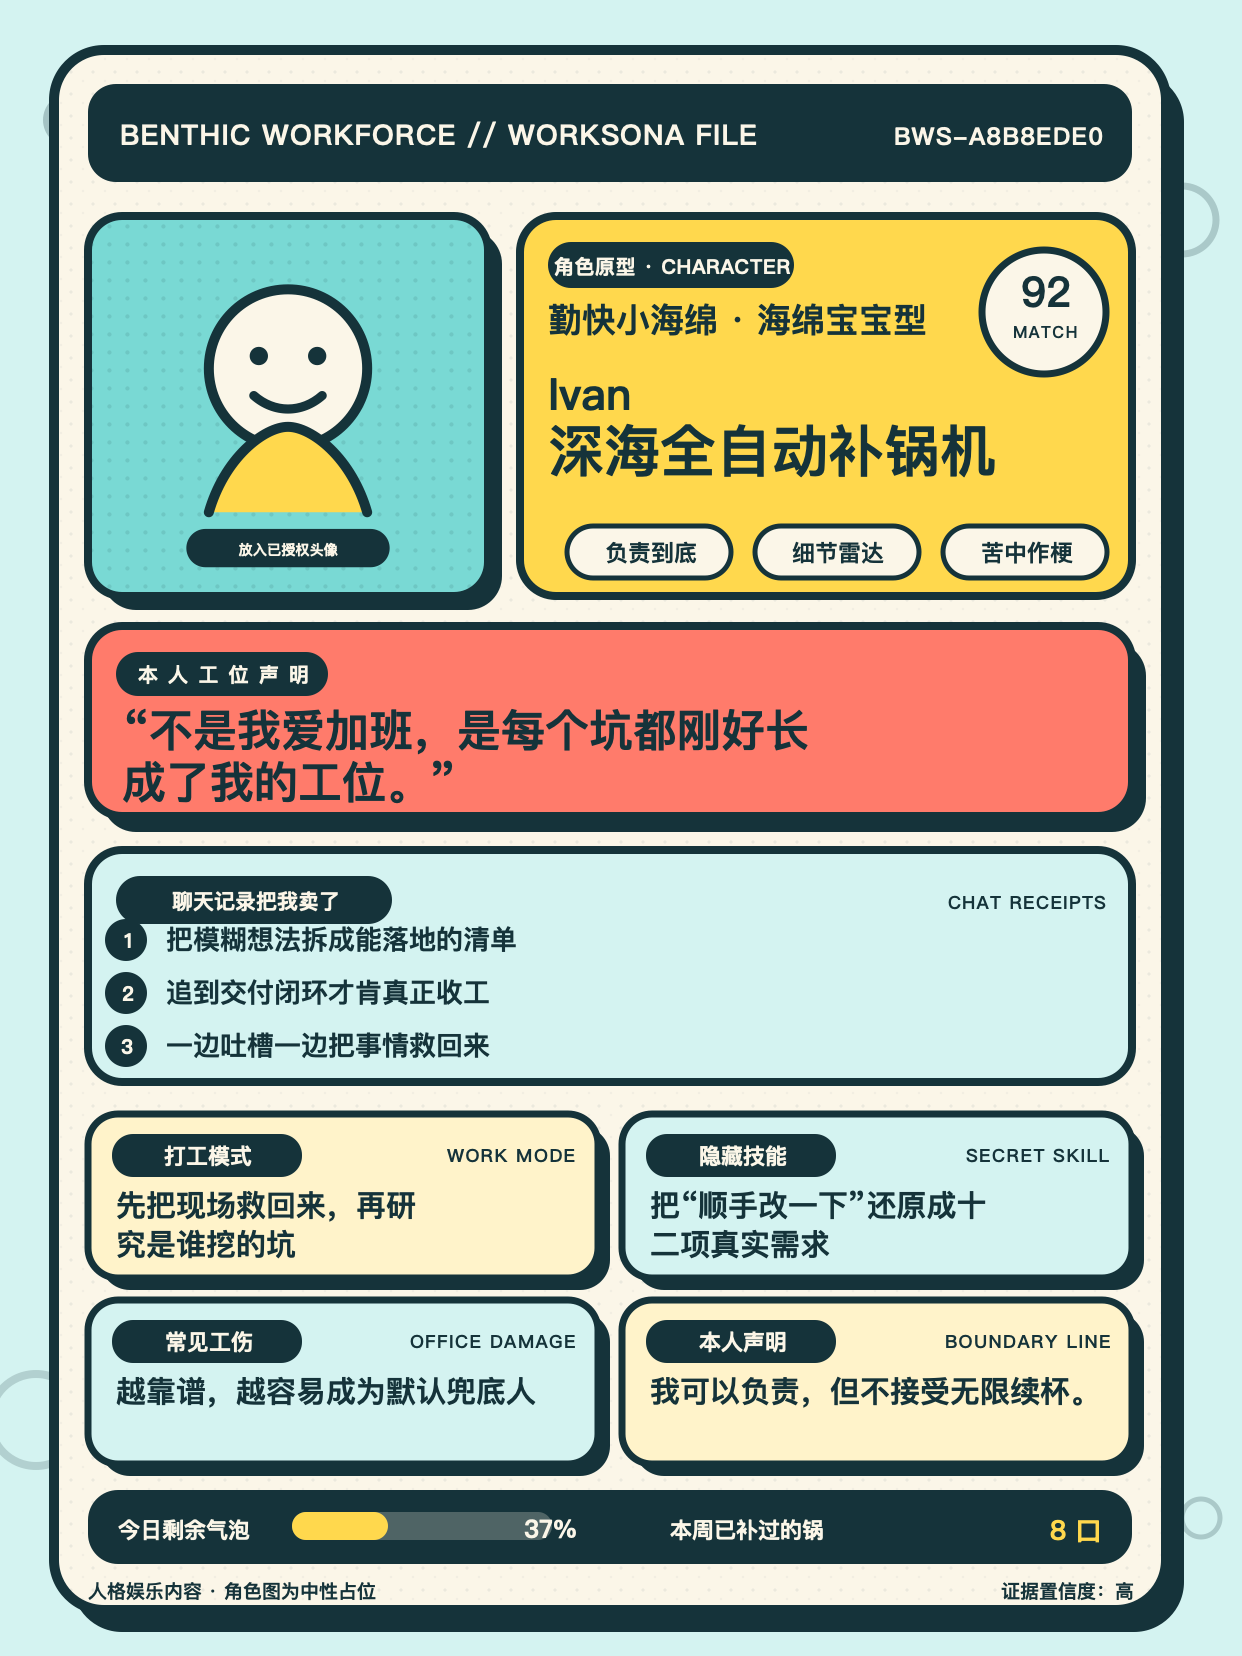
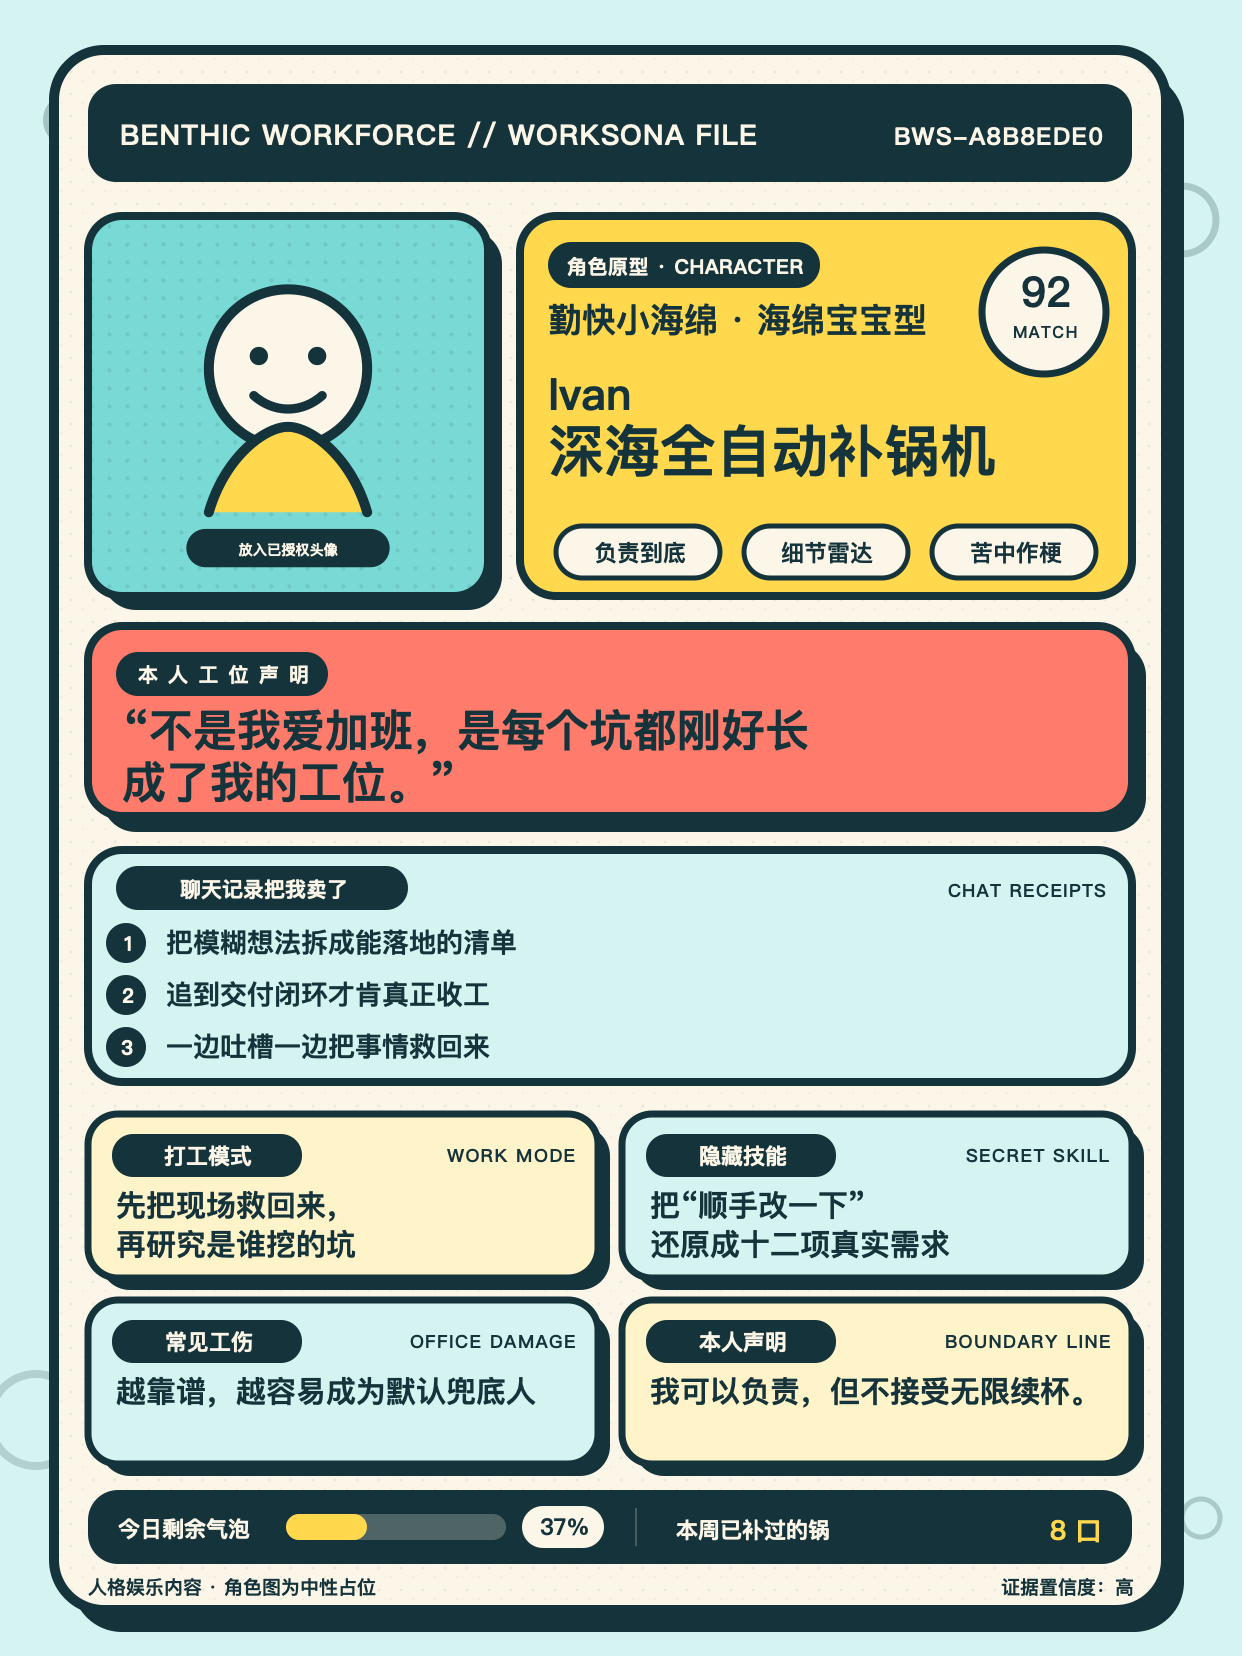
polish worksona card layout

diff --git a/scripts/render_card.py b/scripts/render_card.py
@@ -26,6 +26,32 @@ PAPER = "#FBF6E8"
 CORAL = "#FF7B6B"
 FONT = "'PingFang SC','Noto Sans CJK SC','Microsoft YaHei','Arial',sans-serif"
 
+CJK_BREAK_AFTER = frozenset("，。！？；：、”’」』】》）")
+CJK_FORBIDDEN_START = frozenset("，。！？；：、）》】」』”’…")
+CJK_FORBIDDEN_END = frozenset("（《【「『“‘")
+CJK_NUMERALS = frozenset("零〇一二三四五六七八九十百千万亿两")
+CJK_PROTECTED_TERMS = (
+    "聊天记录",
+    "工作模式",
+    "隐藏技能",
+    "常见工伤",
+    "本人声明",
+    "顺手改一下",
+    "还原",
+    "十二",
+    "真实需求",
+    "研究",
+    "直接运行",
+    "可运行",
+    "交付",
+    "验收条件",
+    "默认兜底人",
+    "容易",
+    "擅自补全",
+    "无限续杯",
+    "人设",
+)
+
 PALETTES = {
     "spongebob": ("#FFD84D", "#79D9D4"),
     "squidward": ("#77C9C5", "#C7A6E8"),
@@ -79,6 +105,57 @@ def tokenize(value: str) -> list[str]:
     return tokens
 
 
+def break_splits_protected_term(value: str, index: int) -> bool:
+    for term in CJK_PROTECTED_TERMS:
+        start = value.find(term)
+        while start >= 0:
+            if start < index < start + len(term):
+                return True
+            start = value.find(term, start + 1)
+    return False
+
+
+def balanced_cjk_two_lines(value: str, max_units: float) -> list[str] | None:
+    """Find a readable two-line CJK split when the full text fits in two lines."""
+    compact = value.strip()
+    if len(compact) < 2:
+        return None
+
+    candidates: list[tuple[float, str, str]] = []
+    minimum_line = max_units * 0.30
+    for index in range(1, len(compact)):
+        left = compact[:index].rstrip()
+        right = compact[index:].lstrip()
+        if not left or not right:
+            continue
+        left_units = text_width_units(left)
+        right_units = text_width_units(right)
+        if left_units > max_units or right_units > max_units:
+            continue
+
+        previous = compact[index - 1]
+        following = compact[index]
+        penalty = abs(left_units - right_units)
+        if min(left_units, right_units) < minimum_line:
+            penalty += (minimum_line - min(left_units, right_units)) * 2.5
+        if previous in CJK_BREAK_AFTER:
+            penalty -= max_units * 0.48
+        if following in CJK_FORBIDDEN_START or previous in CJK_FORBIDDEN_END:
+            penalty += max_units * 4
+        if previous.isascii() and following.isascii() and previous.isalnum() and following.isalnum():
+            penalty += max_units * 4
+        if previous in CJK_NUMERALS and following in CJK_NUMERALS:
+            penalty += max_units * 4
+        if break_splits_protected_term(compact, index):
+            penalty += max_units * 4
+        candidates.append((penalty, left, right))
+
+    if not candidates:
+        return None
+    _, left, right = min(candidates, key=lambda item: item[0])
+    return [left, right]
+
+
 def wrap_text(value: str, width_px: float, font_size: float, max_lines: int) -> list[str]:
     max_units = width_px / font_size
     lines: list[str] = []
@@ -93,6 +170,15 @@ def wrap_text(value: str, width_px: float, font_size: float, max_lines: int) -> 
     if line or not lines:
         lines.append(line.rstrip())
 
+    cjk_count = sum(1 for char in value if ord(char) >= 128)
+    visible_count = sum(1 for char in value if not char.isspace())
+    cjk_dominant = bool(visible_count and cjk_count / visible_count >= 0.55)
+
+    if max_lines == 2 and len(lines) >= 2 and cjk_dominant:
+        balanced = balanced_cjk_two_lines(value, max_units)
+        if balanced:
+            lines = balanced
+
     if len(lines) > max_lines:
         lines = lines[:max_lines]
         last = lines[-1]
@@ -100,9 +186,7 @@ def wrap_text(value: str, width_px: float, font_size: float, max_lines: int) -> 
             last = last[:-1]
         lines[-1] = last.rstrip() + "…"
 
-    cjk_count = sum(1 for char in value if ord(char) >= 128)
-    visible_count = sum(1 for char in value if not char.isspace())
-    if len(lines) >= 2 and visible_count and cjk_count / visible_count >= 0.55:
+    if len(lines) >= 2 and cjk_dominant and max_lines != 2:
         target = max_units * 0.34
         previous = lines[-2]
         last = lines[-1]
@@ -211,7 +295,13 @@ def build_svg(profile: dict[str, Any], profile_path: Path, skill_root: Path) -> 
     serial = serial_for(profile)
     score = int(profile["match_score"])
     battery = int(profile["battery"])
-    battery_width = round(260 * battery / 100)
+    battery_track_width = 220
+    battery_width = round(battery_track_width * battery / 100)
+    battery_fill = (
+        f'<rect x="286" y="1514" width="{battery_width}" height="26" rx="13" fill="{accent}"/>'
+        if battery_width > 0
+        else ""
+    )
     confidence_map = {"low": "低样本", "medium": "中等", "high": "高"}
     confidence_label = confidence_map[profile["confidence"]]
     receipt_label, receipt_english, _ = receipt_copy(profile["confidence"])
@@ -219,7 +309,7 @@ def build_svg(profile: dict[str, Any], profile_path: Path, skill_root: Path) -> 
     tags = profile["signal_tags"]
     tag_widths = [max(126, min(176, 52 + len(str(tag)) * 28)) for tag in tags]
     tag_total = sum(tag_widths) + 24 * 2
-    tag_x = 837 - tag_total / 2
+    tag_x = 826 - tag_total / 2
     tag_parts = []
     for tag, tag_width in zip(tags, tag_widths):
         tag_parts.append(f'<rect x="{tag_x}" y="526" width="{tag_width}" height="52" rx="26" fill="{PAPER}" stroke="{INK}" stroke-width="5"/>')
@@ -227,10 +317,10 @@ def build_svg(profile: dict[str, Any], profile_path: Path, skill_root: Path) -> 
         tag_x += tag_width + 24
 
     evidence_parts = []
-    evidence_y = [949, 1002, 1055]
+    evidence_y = [952, 1004, 1056]
     for index, (value, y) in enumerate(zip(profile["evidence"], evidence_y), start=1):
         evidence_parts.extend([
-            f'<circle cx="126" cy="{y - 9}" r="21" fill="{INK}"/>',
+            f'<circle cx="126" cy="{y - 9}" r="20" fill="{INK}"/>',
             text_block(126, y - 1, 28, str(index), 20, 22, 1, 900, PAPER, "middle"),
             text_block(166, y, 930, str(value), 27, 32, 1, 700, INK),
         ])
@@ -261,8 +351,8 @@ def build_svg(profile: dict[str, Any], profile_path: Path, skill_root: Path) -> 
   <rect x="88" y="216" width="400" height="380" rx="34" fill="none" stroke="{INK}" stroke-width="8"/>
 
   <rect x="520" y="216" width="612" height="380" rx="36" fill="{accent}" stroke="{INK}" stroke-width="8"/>
-  <rect x="548" y="242" width="246" height="46" rx="23" fill="{INK}"/>
-  {text_block(671, 274, 218, '角色原型 · CHARACTER', 20, 24, 1, 800, PAPER, 'middle', 0.6)}
+  <rect x="548" y="242" width="272" height="46" rx="23" fill="{INK}"/>
+  {text_block(684, 274, 244, '角色原型 · CHARACTER', 20, 24, 1, 800, PAPER, 'middle', 0.6)}
   {text_block(548, 332, 430, str(profile['character_name']), 34, 42, 2, 800, INK)}
   <circle cx="1044" cy="312" r="62" fill="{PAPER}" stroke="{INK}" stroke-width="7"/>
   {text_block(1044, 307, 90, str(score), 42, 44, 1, 900, INK, 'middle')}
@@ -278,9 +368,9 @@ def build_svg(profile: dict[str, Any], profile_path: Path, skill_root: Path) -> 
   {text_block(122, 746, 966, '“' + str(profile['tagline']) + '”', 44, 52, 3, 900, INK)}
 
   <rect x="88" y="850" width="1044" height="232" rx="34" fill="{secondary_light}" stroke="{INK}" stroke-width="8"/>
-  <rect x="116" y="876" width="276" height="48" rx="24" fill="{INK}"/>
-  {text_block(254, 909, 250, receipt_label, 21, 24, 1, 850, PAPER, 'middle')}
-  {text_block(1104, 909, 280, receipt_english, 18, 22, 1, 750, INK, 'end', 1.2)}
+  <rect x="116" y="866" width="292" height="44" rx="22" fill="{INK}"/>
+  {text_block(262, 897, 264, receipt_label, 21, 24, 1, 850, PAPER, 'middle')}
+  {text_block(1104, 897, 280, receipt_english, 18, 22, 1, 750, INK, 'end', 1.2)}
   {''.join(evidence_parts)}
 
   {field_card(88, 1114, 510, 164, '打工模式', 'WORK MODE', str(profile['work_mode']), accent_light)}
@@ -289,15 +379,17 @@ def build_svg(profile: dict[str, Any], profile_path: Path, skill_root: Path) -> 
   {field_card(622, 1300, 510, 164, '本人声明', 'BOUNDARY LINE', str(profile['boundary_line']), accent_light)}
 
   <rect x="88" y="1490" width="1044" height="74" rx="30" fill="{INK}"/>
-  {text_block(118, 1538, 180, '今日剩余气泡', 22, 26, 1, 800, PAPER)}
-  <rect x="292" y="1512" width="260" height="28" rx="14" fill="{PAPER}" opacity="0.25"/>
-  <rect x="292" y="1512" width="{battery_width}" height="28" rx="14" fill="{accent}"/>
-  {text_block(574, 1538, 90, str(battery) + '%', 25, 28, 1, 900, PAPER, 'end')}
-  {text_block(670, 1538, 250, '本周已补过的锅', 22, 26, 1, 800, PAPER)}
+  {text_block(118, 1537, 156, '今日剩余气泡', 22, 26, 1, 800, PAPER)}
+  <rect x="286" y="1514" width="{battery_track_width}" height="26" rx="13" fill="{PAPER}" opacity="0.25"/>
+  {battery_fill}
+  <rect x="522" y="1506" width="82" height="42" rx="21" fill="{PAPER}"/>
+  {text_block(563, 1535, 62, str(battery) + '%', 23, 26, 1, 900, INK, 'middle')}
+  <line x1="636" y1="1508" x2="636" y2="1546" stroke="{PAPER}" stroke-width="2" opacity="0.22"/>
+  {text_block(676, 1538, 250, '本周已补过的锅', 22, 26, 1, 800, PAPER)}
   {text_block(1098, 1540, 150, str(profile['patch_count']) + ' 口', 27, 30, 1, 900, accent, 'end')}
 
-  {text_block(88, 1598, 740, disclaimer, 19, 22, 1, 650, INK)}
-  {text_block(1132, 1598, 260, '证据置信度：' + confidence_label, 19, 22, 1, 750, INK, 'end')}
+  {text_block(88, 1594, 740, disclaimer, 19, 22, 1, 650, INK)}
+  {text_block(1132, 1594, 260, '证据置信度：' + confidence_label, 19, 22, 1, 750, INK, 'end')}
 </svg>'''
     return svg
 

diff --git a/references/card-spec.md b/references/card-spec.md
@@ -36,6 +36,12 @@ Aim for “collectible employee archive card,” not “children's party invitat
 
 Use short bilingual micro-labels only when they support the document-file aesthetic. Keep the meaningful copy in the user's primary language.
 
+Maintain component spacing as a layout invariant:
+
+- keep at least 12 px of clear space between the chat-receipt title pill and the first numbered badge;
+- render percentages in a fixed-width value capsule beside the progress track, never floating past the track edge;
+- keep at least 18 px between footer groups and use a divider when two statistics share one bar.
+
 ## Typography
 
 Use this system stack so the SVG remains portable:
@@ -52,6 +58,7 @@ Use this system stack so the SVG remains portable:
 - Use line height between 1.15 and 1.32.
 
 Do not use condensed novelty fonts for Chinese body text.
+Prefer punctuation-aware CJK line breaks. Do not begin a line with closing punctuation or split paired number expressions and common short compounds when another valid break exists.
 
 ## Avatar treatment
 
